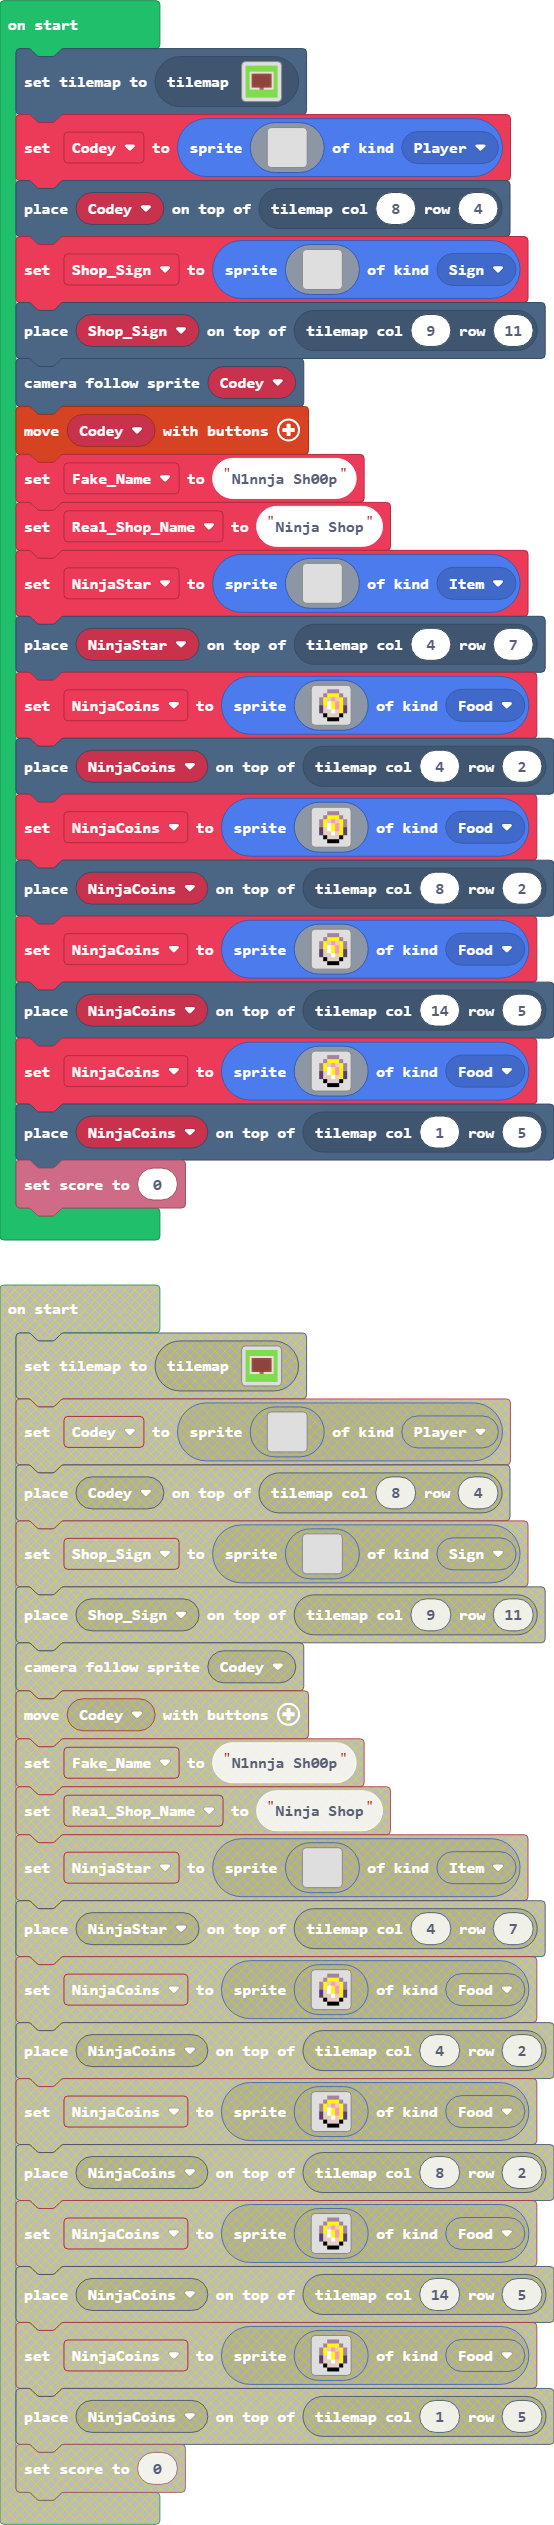
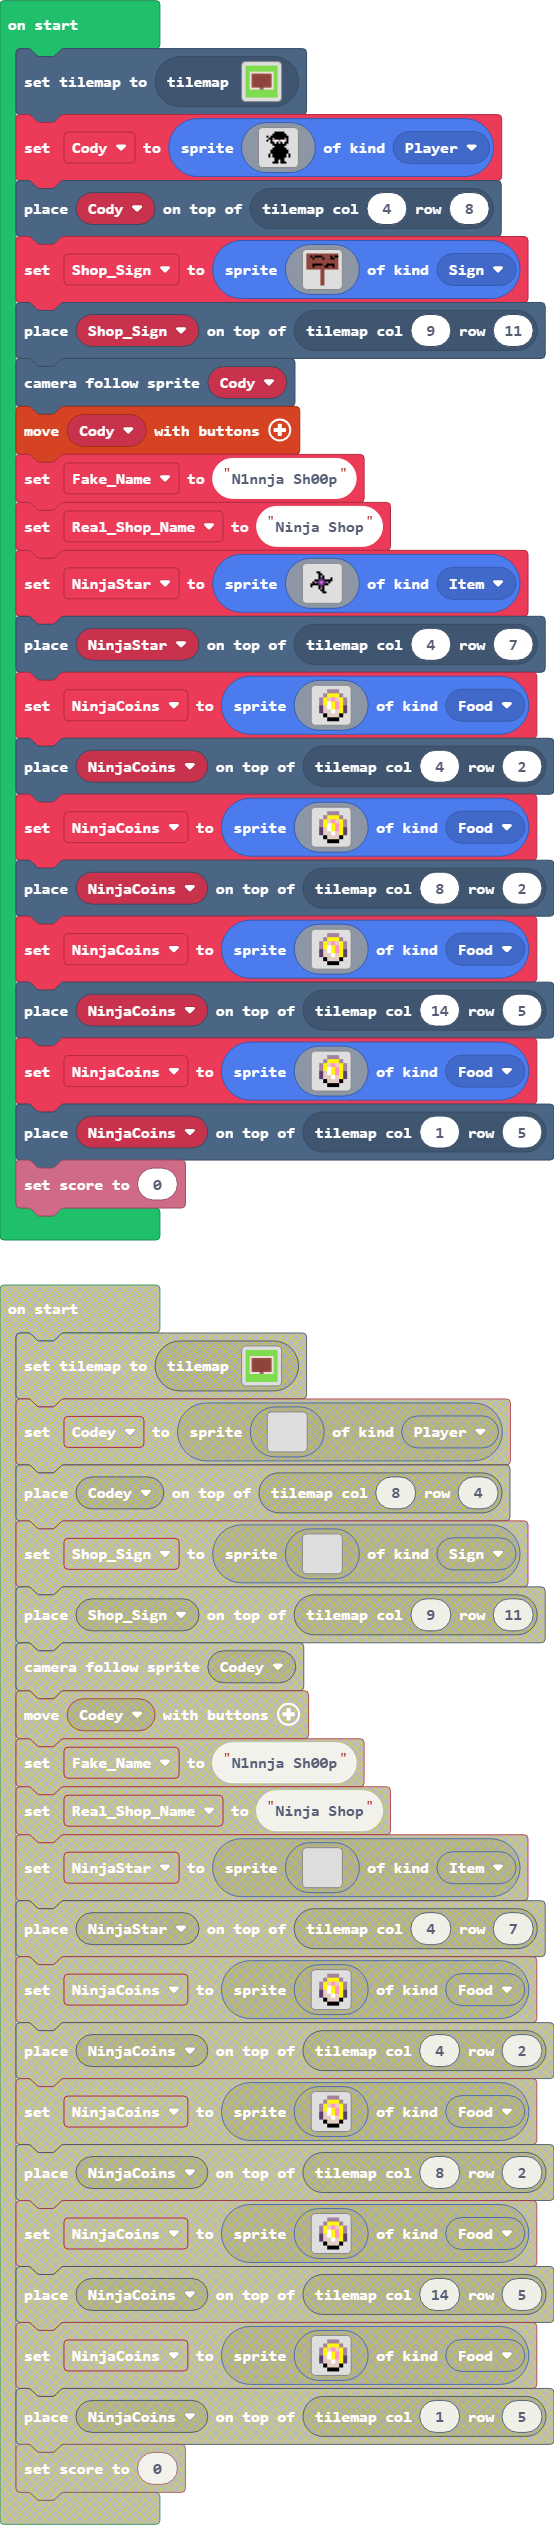
Changed popup at end

diff --git a/main.ts b/main.ts
@@ -26,66 +26,15 @@ sprites.onOverlap(SpriteKind.Player, SpriteKind.Food, function (sprite, otherSpr
 let Fake_Name = ""
 let Shop_Sign: Sprite = null
 tiles.setCurrentTilemap(tilemap`Store`)
-let Codey = sprites.create(img`
-    . . . . . . . . . . . . . . . . 
-    . . . . . . . . . . . . . . . . 
-    . . . . . . . . . . . . . . . . 
-    . . . . . . . . . . . . . . . . 
-    . . . . . . . . . . . . . . . . 
-    . . . . . . . . . . . . . . . . 
-    . . . . . . . . . . . . . . . . 
-    . . . . . . . . . . . . . . . . 
-    . . . . . . . . . . . . . . . . 
-    . . . . . . . . . . . . . . . . 
-    . . . . . . . . . . . . . . . . 
-    . . . . . . . . . . . . . . . . 
-    . . . . . . . . . . . . . . . . 
-    . . . . . . . . . . . . . . . . 
-    . . . . . . . . . . . . . . . . 
-    . . . . . . . . . . . . . . . . 
-    `, SpriteKind.Player)
-tiles.placeOnTile(Codey, tiles.getTileLocation(8, 4))
-Shop_Sign = sprites.create(img`
-    . . . . . . . . . . . . . . . . 
-    . . . . . . . . . . . . . . . . 
-    . . . . . . . . . . . . . . . . 
-    . . . . . . . . . . . . . . . . 
-    . . . . . . . . . . . . . . . . 
-    . . . . . . . . . . . . . . . . 
-    . . . . . . . . . . . . . . . . 
-    . . . . . . . . . . . . . . . . 
-    . . . . . . . . . . . . . . . . 
-    . . . . . . . . . . . . . . . . 
-    . . . . . . . . . . . . . . . . 
-    . . . . . . . . . . . . . . . . 
-    . . . . . . . . . . . . . . . . 
-    . . . . . . . . . . . . . . . . 
-    . . . . . . . . . . . . . . . . 
-    . . . . . . . . . . . . . . . . 
-    `, SpriteKind.Sign)
+let Cody = sprites.create(assets.image`Ninja`, SpriteKind.Player)
+tiles.placeOnTile(Cody, tiles.getTileLocation(4, 8))
+Shop_Sign = sprites.create(assets.image`Sign`, SpriteKind.Sign)
 tiles.placeOnTile(Shop_Sign, tiles.getTileLocation(9, 11))
-scene.cameraFollowSprite(Codey)
-controller.moveSprite(Codey)
+scene.cameraFollowSprite(Cody)
+controller.moveSprite(Cody)
 Fake_Name = "N1nnja Sh00p"
 let Real_Shop_Name = "Ninja Shop"
-let NinjaStar = sprites.create(img`
-    . . . . . . . . . . . . . . . . 
-    . . . . . . . . . . . . . . . . 
-    . . . . . . . . . . . . . . . . 
-    . . . . . . . . . . . . . . . . 
-    . . . . . . . . . . . . . . . . 
-    . . . . . . . . . . . . . . . . 
-    . . . . . . . . . . . . . . . . 
-    . . . . . . . . . . . . . . . . 
-    . . . . . . . . . . . . . . . . 
-    . . . . . . . . . . . . . . . . 
-    . . . . . . . . . . . . . . . . 
-    . . . . . . . . . . . . . . . . 
-    . . . . . . . . . . . . . . . . 
-    . . . . . . . . . . . . . . . . 
-    . . . . . . . . . . . . . . . . 
-    . . . . . . . . . . . . . . . . 
-    `, SpriteKind.Item)
+let NinjaStar = sprites.create(assets.image`Ninja Star`, SpriteKind.Item)
 tiles.placeOnTile(NinjaStar, tiles.getTileLocation(4, 7))
 let NinjaCoins = sprites.create(img`
     . . . b b b . . 

diff --git a/tilemap.g.ts b/tilemap.g.ts
@@ -67,6 +67,25 @@ namespace myTiles {
 . . . . . . . . . . . . . . . . 
 . . . . . . . . . . . . . . . . 
 `, [myTiles.transparency16,sprites.builtin.brick,sprites.castle.tileGrass1,myTiles.tile1,myTiles.tile2,myTiles.tile3,myTiles.tile4,myTiles.tile5,myTiles.tile6,myTiles.tile7,myTiles.tile9,myTiles.tile10,myTiles.tile11,myTiles.tile12], TileScale.Sixteen);
+            case "level3":
+            case "level3":return tiles.createTilemap(hex`1000100000000000000000000000000000000000000000000000000000000000000000000000000000000000000000000000000000000000000000000000000000000000000000000000000000000000000000000000000000000000000000000000000000000000000000000000000000000000000000000000000000000000000000000000000000000000000000000000000000000000000000000000000000000000000000000000000000000000000000000000000000000000000000000000000000000000000000000000000000000000000000000000000000000000000000000000000000000000000000000000000000000000000000000000000000000000`, img`
+. . . . . . . . . . . . . . . . 
+. . . . . . . . . . . . . . . . 
+. . . . . . . . . . . . . . . . 
+. . . . . . . . . . . . . . . . 
+. . . . . . . . . . . . . . . . 
+. . . . . . . . . . . . . . . . 
+. . . . . . . . . . . . . . . . 
+. . . . . . . . . . . . . . . . 
+. . . . . . . . . . . . . . . . 
+. . . . . . . . . . . . . . . . 
+. . . . . . . . . . . . . . . . 
+. . . . . . . . . . . . . . . . 
+. . . . . . . . . . . . . . . . 
+. . . . . . . . . . . . . . . . 
+. . . . . . . . . . . . . . . . 
+. . . . . . . . . . . . . . . . 
+`, [myTiles.transparency16], TileScale.Sixteen);
         }
         return null;
     })

diff --git a/Riddle1.md b/Riddle1.md
@@ -1,3 +1,4 @@
+### @hideDone true
 ```
 ```template
 namespace SpriteKind {
@@ -162,9 +163,13 @@ What's wrong with the sign text? Fix the code!
 
 ## Step 3
 
-Codey enters the store and picks up a few ninja stars and some ninja belts, Codey his wallet to pay and notices a hole at the bottom, he has no money but somehow the cashier lets him leave for free
+Cody enters the store and picks up a few ninja stars and some ninja belts, Cody his wallet to pay and notices a hole at the bottom, he has no money but somehow the cashier lets him leave for free
 
-Make sure Codey has to pay for the decorations!
+Make sure Cody has to pay for the decorations!
+
+Reminder: The player shouldn't be able to pick up a coin more than once
 
 
-## Clue Answer: AAAABBBCC @showdialog
+## Riddle Answer: AAAABBBCC @showdialog
+
+THIS IS THE ANSWER TO THE RIDDLE
